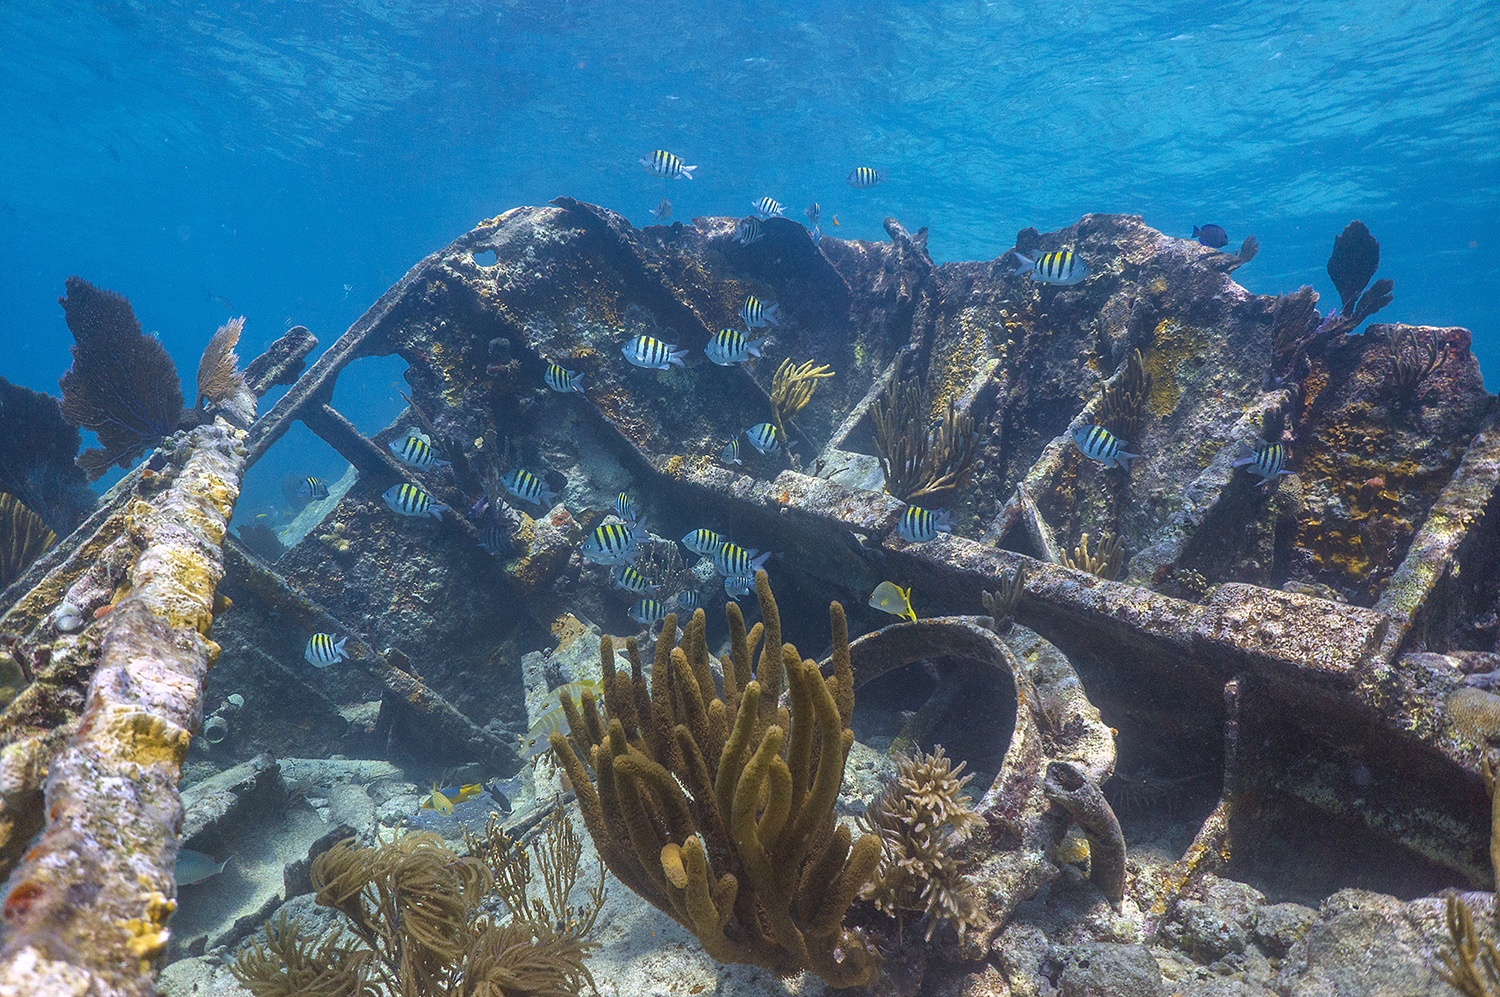
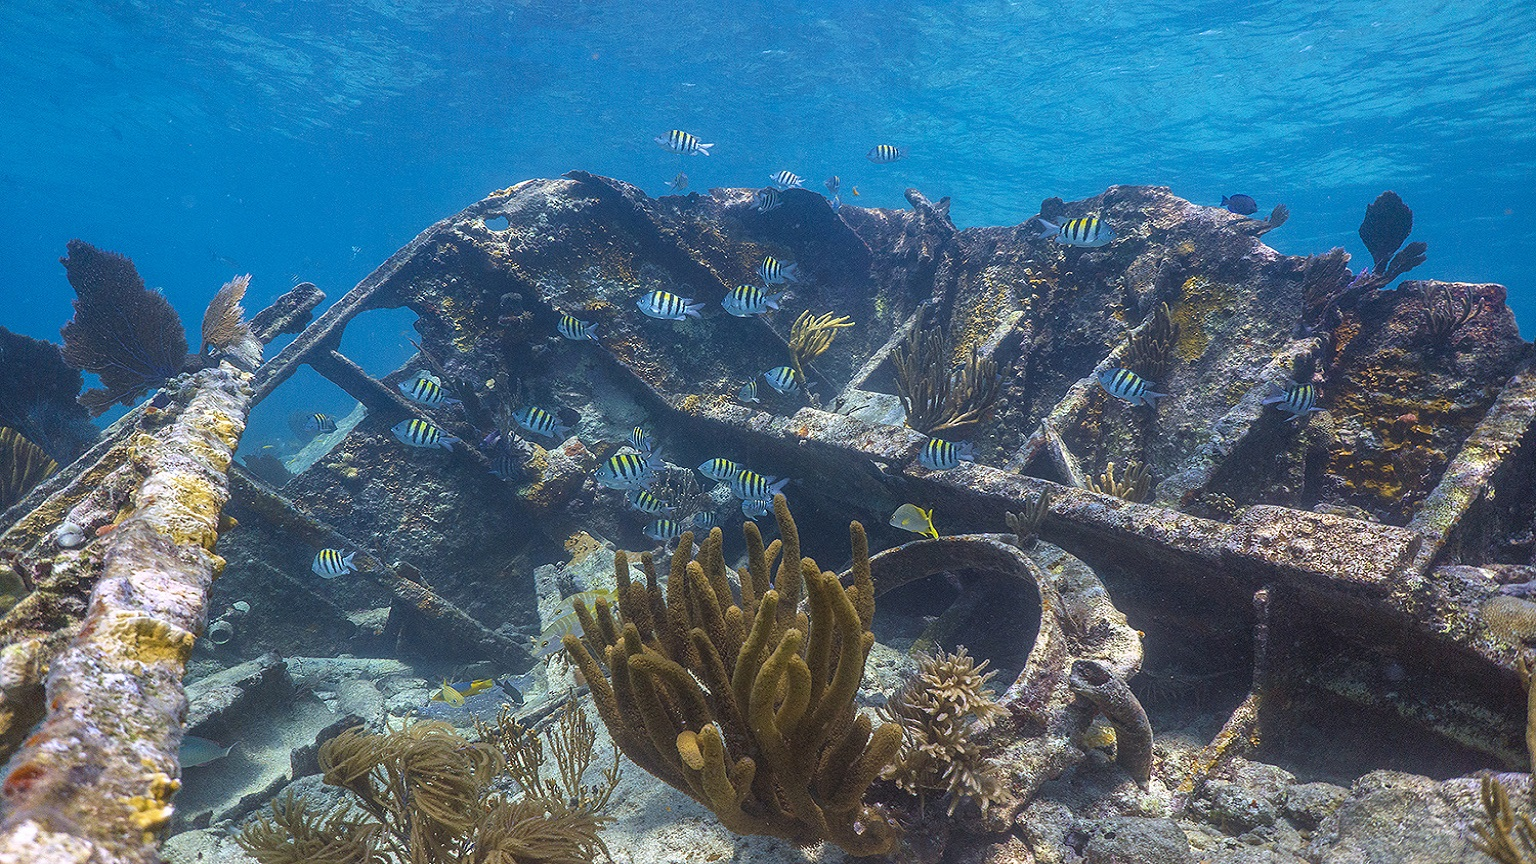
Scaling and cycling corrected for background images

diff --git a/index.html b/index.html
@@ -16,15 +16,21 @@
     <link rel="stylesheet" href="https://maxcdn.bootstrapcdn.com/bootstrap/4.0.0-beta/css/bootstrap.min.css" integrity="sha384-/Y6pD6FV/Vv2HJnA6t+vslU6fwYXjCFtcEpHbNJ0lyAFsXTsjBbfaDjzALeQsN6M"
         crossorigin="anonymous">
     <!-- CSS -->
+    <link rel="stylesheet" type="text/css" href="assets/css/reset.css">
     <link rel="stylesheet" type="text/css" href="assets/css/style.css">
 </head>
 
 <body>
-    <!-- WELCOME    PAGE -->
+    <!-- NAV BAR -->
+    <div class="nav-box">
+            <nav class="navbar sticky-top navbar-dark bg-dark">
+                <div class="container justify-content-center">
+                    <h1 class="navbar-brand">National Parks Trivia</h1>
+                </div>
+            </nav>
+    </div>
+    <!-- WELCOME PAGE -->
     <div class="container" id="welcome-page">
-        <div class="row">
-            <h1>American National Parks Trivia</h1>
-        </div>
         <div class="row">
             <p>Welcome to American National Parks Trivia! Ready to test you knowledge on our National Parks?</p>
             <p>There will be 10 questions, each with a 30 second timer. Even if you don't get the right answers, you'll still
@@ -40,9 +46,6 @@
     <div class="timer">
         <div id="timer"></div>
     </div>
-
-    <!-- BACKGROUND IMAGE -->
-    <img id="background-image" src="" alt="Park Image">
 
     <!-- Q1  PAGE -->
     <div class="container question" id="q1-page">

diff --git a/assets/javascript/app.js b/assets/javascript/app.js
@@ -71,6 +71,10 @@ $(document).ready(function () {
         nextAnswer();
         // Hide Timer
         $("#timer").hide();
+
+
+        
+        newBackground();
     })
 
     //      C O R R E C T   A N S W E R   P A G E S     //
@@ -113,10 +117,13 @@ var images = [
 ]
 console.log('images:', images[bg]);
 
-function newBackground () {
-    document.body.style.backgroundImage = "url('"+images[bg]+"')";
-}
+// function newBackground () {
+//     document.body.style.backgroundImage = "url('"+images[bg]+"')";
+// }
 
+function newBackground () {
+  $(".answer").css("background-image",  "url('"+images[bg]+"')");  
+}
 
 
 
@@ -140,6 +147,7 @@ function newBackground () {
         unanswered = 0;
         currentQuestion = 0;
         currentAnswer = 0;
+        bg = 0;
         $('#tally-page').hide();
         $('#welcome-page').fadeIn();
         console.log('correct:', correct);
@@ -175,6 +183,7 @@ function newBackground () {
     function nextQuestion() {
         $($answer.get(currentAnswer)).fadeOut();
         currentAnswer = currentAnswer + 1;
+        bg = bg + 1;
         if (currentQuestion == totalQuestions) {
             console.log('Done with Quiz');
         } else {

diff --git a/assets/css/reset.css b/assets/css/reset.css
@@ -1,0 +1,48 @@
+/* http://meyerweb.com/eric/tools/css/reset/ 
+   v2.0 | 20110126
+   License: none (public domain)
+*/
+
+html, body, div, span, applet, object, iframe,
+h1, h2, h3, h4, h5, h6, p, blockquote, pre,
+a, abbr, acronym, address, big, cite, code,
+del, dfn, em, img, ins, kbd, q, s, samp,
+small, strike, strong, sub, sup, tt, var,
+b, u, i, center,
+dl, dt, dd, ol, ul, li,
+fieldset, form, label, legend,
+table, caption, tbody, tfoot, thead, tr, th, td,
+article, aside, canvas, details, embed, 
+figure, figcaption, footer, header, hgroup, 
+menu, nav, output, ruby, section, summary,
+time, mark, audio, video {
+	margin: 0;
+	padding: 0;
+	border: 0;
+	font-size: 100%;
+	font: inherit;
+	vertical-align: baseline;
+}
+/* HTML5 display-role reset for older browsers */
+article, aside, details, figcaption, figure, 
+footer, header, hgroup, menu, nav, section {
+	display: block;
+}
+body {
+	line-height: 1;
+}
+ol, ul {
+	list-style: none;
+}
+blockquote, q {
+	quotes: none;
+}
+blockquote:before, blockquote:after,
+q:before, q:after {
+	content: '';
+	content: none;
+}
+table {
+	border-collapse: collapse;
+	border-spacing: 0;
+}

diff --git a/assets/css/style.css b/assets/css/style.css
@@ -1,3 +1,13 @@
-/* .page {
-    visibility: hidden;
-} */
+body {
+    padding: 0;
+}
+
+.answer {
+    position: fixed;
+    bottom: 0;
+    left: 0;
+    height: 100%;
+    min-width: 100%;
+    margin: 0;    
+    background-size: 100% 100%;
+}
